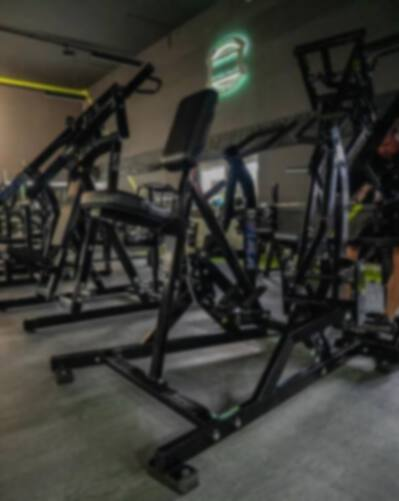
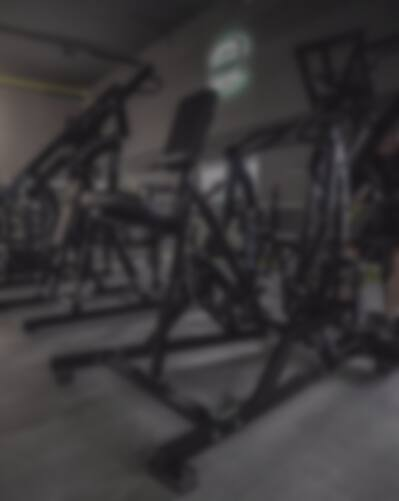
Softer background: more blur, muted colors, lower contrast, gentler overlay
Claude-Session: https://claude.ai/code/session_01BmvASgkGUPk6B9kuTZnXMQ

diff --git a/css/styles.css b/css/styles.css
@@ -974,9 +974,9 @@ body { background: transparent; }
 body::before {
   content: ""; position: fixed; inset: 0; z-index: -1; pointer-events: none;
   background:
-    radial-gradient(60% 40% at 100% 0%, rgba(236, 72, 153, .20), transparent 70%),
-    radial-gradient(50% 35% at 0% 30%, rgba(124, 58, 237, .14), transparent 70%),
-    linear-gradient(180deg, rgba(9, 9, 11, .42) 0%, rgba(9, 9, 11, .66) 45%, rgba(9, 9, 11, .88) 100%),
+    radial-gradient(70% 45% at 100% 0%, rgba(236, 72, 153, .16), transparent 70%),
+    radial-gradient(60% 40% at 0% 35%, rgba(124, 58, 237, .12), transparent 70%),
+    linear-gradient(180deg, rgba(12, 10, 16, .50) 0%, rgba(12, 10, 16, .64) 45%, rgba(9, 9, 11, .84) 100%),
     url(../icons/bg-gym.jpg) center 35% / cover no-repeat,
     #09090b;
 }

diff --git a/sw.js b/sw.js
@@ -1,4 +1,4 @@
-const CACHE = 'trener-v38';
+const CACHE = 'trener-v39';
 const ASSETS = [
   './',
   'index.html',
